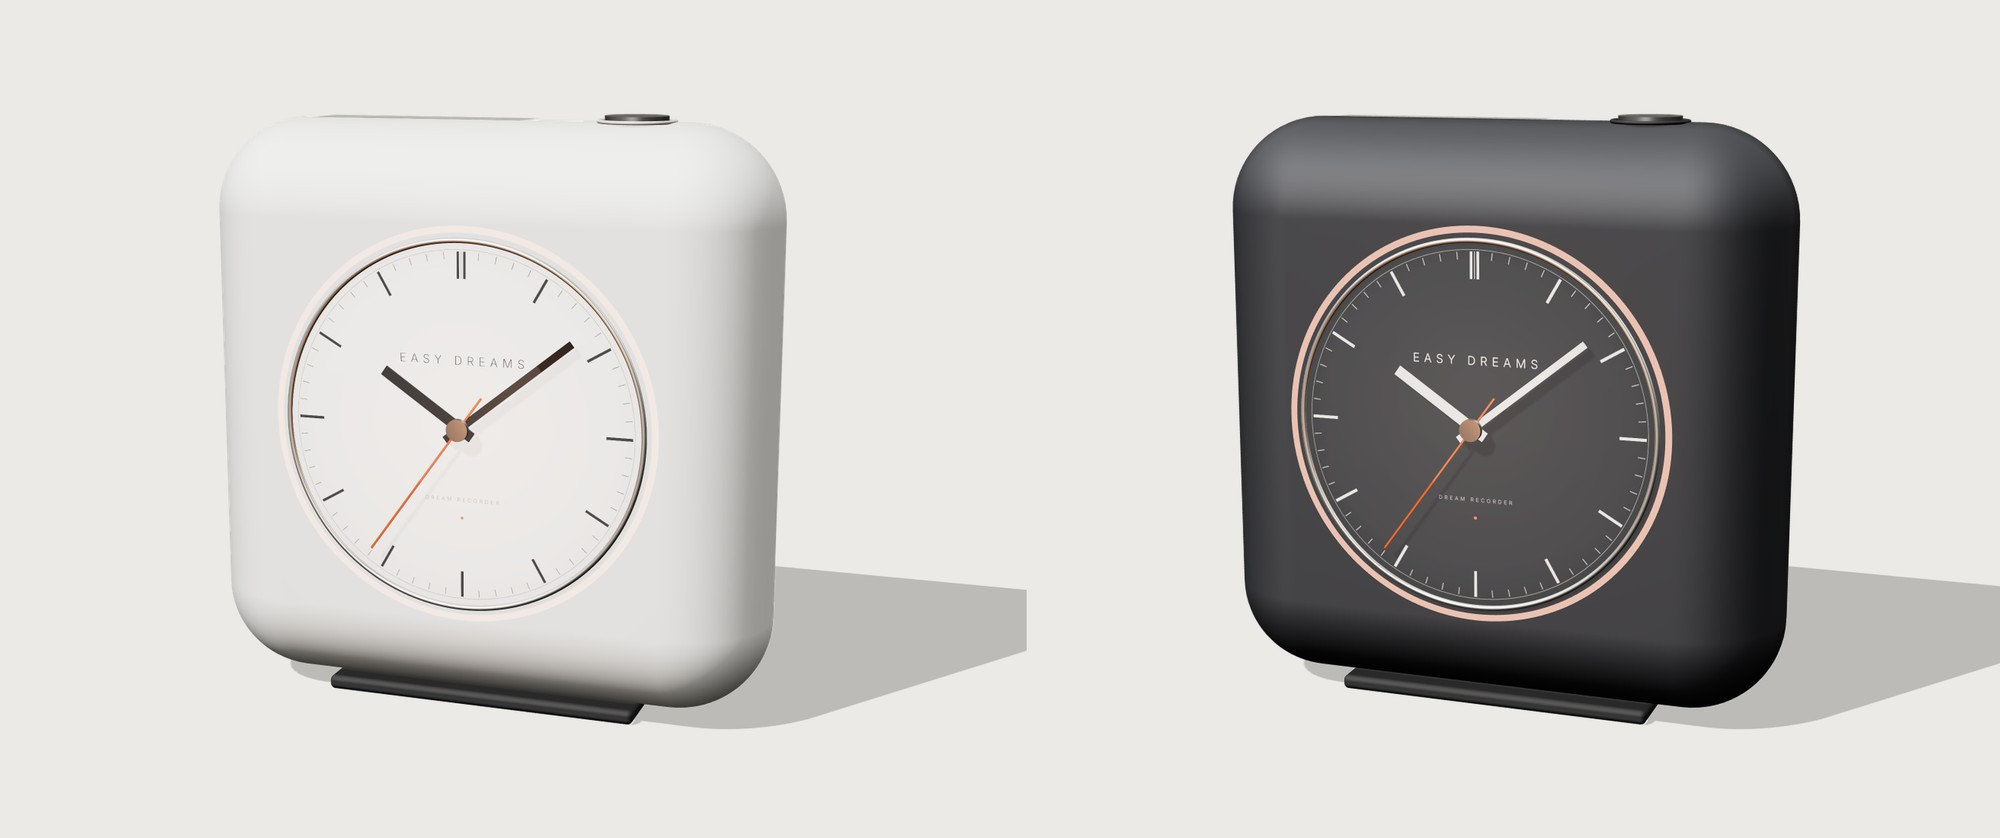
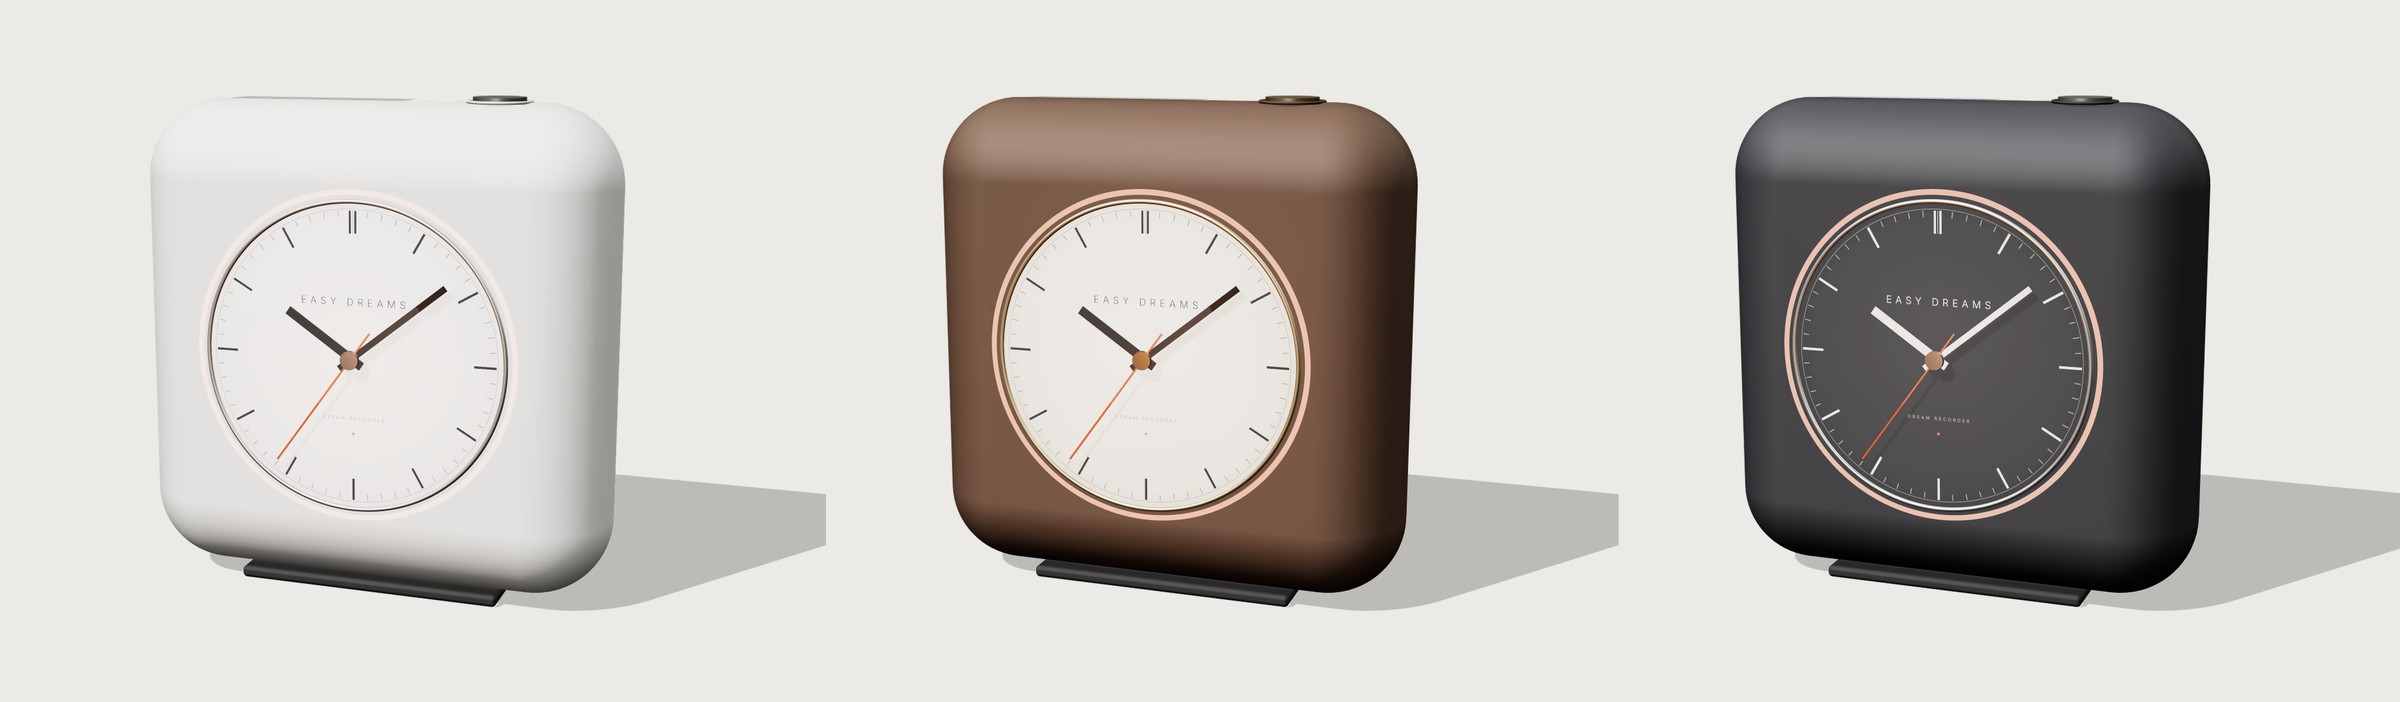
Add mocha brown finish with live finish switcher
Claude-Session: https://claude.ai/code/session_01Tka3XjxpxafM5JXNLjZUeU

diff --git a/oneiro/index.html b/oneiro/index.html
@@ -170,7 +170,11 @@ caption{text-align:start;font-weight:400;font-size:20px;padding-bottom:12px}
 .ref .from{font-family:var(--f-mono);font-size:11px;letter-spacing:.16em;color:var(--faint);text-transform:uppercase}
 .ref .take{border-top:1px solid var(--line);padding-top:12px;font-size:15px}
 .ref .take b{color:var(--accent);font-weight:500}
-.finishes{display:grid;grid-template-columns:1fr 1fr;gap:20px}
+.finishes{display:grid;grid-template-columns:repeat(3,1fr);gap:20px}
+.swatches{display:flex;gap:10px;align-items:center}
+.swatches button{width:28px;height:28px;border-radius:50%;cursor:pointer;border:2px solid transparent;outline-offset:2px;box-shadow:inset 0 0 0 1px rgba(0,0,0,.15)}
+.swatches button[aria-pressed=true]{border-color:currentColor}
+.swatches span{font-size:13px;opacity:.75}
 .finish{border-radius:24px;overflow:hidden;background:radial-gradient(ellipse at 50% 35%,#f3f1ed,var(--stone) 75%);display:grid}
 .finish img{width:100%;height:auto;display:block}
 .finish .cap{padding:0 22px 20px;display:flex;justify-content:space-between;gap:10px;flex-wrap:wrap}
@@ -220,7 +224,7 @@ footer{padding-block:40px 64px;border-top:1px solid var(--line);color:var(--fain
     <div><span class="v">מחוגים בתנועה שקטה</span><span class="k">מנוע צעד בלי תקתוק, מתכוונן לבד דרך Wi‑Fi</span></div>
     <div><span class="v">טבעת אור זריחה</span><span class="k">20 דקות מסגול לענבר לפני הצליל</span></div>
     <div><span class="v">כפתור כתר להקלטה</span><span class="k">מקליט רק כשלוחצים, עם נורית אדומה</span></div>
-    <div><span class="v">אבן או גרפיט</span><span class="k">גוף מט רך למגע, 16 × 16 × 5.2 ס״מ</span></div>
+    <div><span class="v">אבן, מוקה או גרפיט</span><span class="k">גוף מט רך למגע, 16 × 16 × 5.2 ס״מ</span></div>
   </div>
 </header>
 
@@ -229,7 +233,7 @@ footer{padding-block:40px 64px;border-top:1px solid var(--line);color:var(--fain
   <div class="refs">
     <div class="ref"><span class="from">Brick</span><h3>חפץ פשוט שמשנה הרגל</h3><p class="muted">קובייה שלא עושה כלום חוץ מלנעול את הטלפון. ההצלחה שלה היא בתנועה הפיזית: מחליטים עם הגוף, לא עם עוד אפליקציה.</p><p class="take"><b>אצלנו:</b> בוקר בלי טלפון. האפליקציות המסיחות נשארות נעולות עד שלוחצים על הכתר ומספרים את החלום, או עד 20 דקות אחרי ההשכמה.</p></div>
     <div class="ref"><span class="from">WHOOP</span><h3>בלי מסך, ציון אחד, מנוי</h3><p class="muted">צמיד בלי מסך שמחזיר כל בוקר מספר אחד שאכפת לך ממנו. החומרה כלולה בחברות חודשית, והעסק הוא המנוי.</p><p class="take"><b>אצלנו:</b> ציון חלימה יומי, מנוי חודשי שכולל את השעון, ושום מסך על השעון עצמו.</p></div>
-    <div class="ref"><span class="from">Apple</span><h3>עיצוב ומערכת שלמה</h3><p class="muted">מוצר שנראה פשוט כי כל פרט הוחלט. ומוצרים שמדברים זה עם זה, כמו נתוני שינה מהשעון שנכנסים ל־Health.</p><p class="take"><b>אצלנו:</b> שני גימורים בלבד, אריזה שהיא חוויה, וסנכרון עם Apple Health, Apple Watch, Oura ו־WHOOP כדי לדעת מתי אתם בשלב חלימה.</p></div>
+    <div class="ref"><span class="from">Apple</span><h3>עיצוב ומערכת שלמה</h3><p class="muted">מוצר שנראה פשוט כי כל פרט הוחלט. ומוצרים שמדברים זה עם זה, כמו נתוני שינה מהשעון שנכנסים ל־Health.</p><p class="take"><b>אצלנו:</b> שלושה גימורים בלבד, אריזה שהיא חוויה, וסנכרון עם Apple Health, Apple Watch, Oura ו־WHOOP כדי לדעת מתי אתם בשלב חלימה.</p></div>
   </div>
 </section>
 
@@ -245,6 +249,7 @@ footer{padding-block:40px 64px;border-top:1px solid var(--line);color:var(--fain
       <canvas id="simCanvas" hidden aria-label="מודל תלת־ממדי של השעון"></canvas>
       <img class="poster" id="poster" src="oneiro-clock.png" alt="השעון בחדר" width="1600" height="1257">
       <div class="hud">
+        <div class="swatches" role="group" aria-label="גימור"><button type="button" data-f="stone" aria-pressed="true" style="background:#d9d8d4" aria-label="אבן"></button><button type="button" data-f="mocha" aria-pressed="false" style="background:#5a4436" aria-label="מוקה"></button><button type="button" data-f="graphite" aria-pressed="false" style="background:#36373a" aria-label="גרפיט"></button><span id="fname">אבן</span></div>
         <div class="timeline" aria-hidden="true"><span id="s1" class="on">לילה</span><span id="s2">זריחה</span><span id="s3">מנגינה</span><span id="s4">ספרו</span><span id="s5">פירוש</span></div>
         <p class="status" id="status"><b>06:57</b> · לילה. האור כבוי והמיקרופון לא מקליט.</p>
         <div class="row">
@@ -289,9 +294,10 @@ footer{padding-block:40px 64px;border-top:1px solid var(--line);color:var(--fain
   <div class="sec-head"><span class="label">עיצוב</span><h2>ישן וחדש באותו חפץ</h2><p>החוגה והמחוגים לקוחים משעוני שולחן קלאסיים. הגוף הוא אובייקט רך ושקט, ממשפחת המוצרים שמכירים מוולנס ומטכנולוגיה. אין מסך, אין התראות ויש כפתור אחד.</p></div>
   <div class="finishes">
     <div class="finish"><img src="oneiro-clock.png" width="1600" height="1257" alt="Easy Dreams בגימור אבן: גוף לבן־אפרפר מט וחוגה בהירה"><div class="cap"><h3>אבן</h3><span class="muted">גוף מט לבן־אפרפר, מחוגים שחורים</span></div></div>
+    <div class="finish"><img src="oneiro-mocha.png" width="1600" height="1257" alt="Easy Dreams בגימור מוקה: גוף חום מט וחוגה בצבע שמנת"><div class="cap"><h3>מוקה</h3><span class="muted">חום מט חם, חוגה בצבע שמנת</span></div></div>
     <div class="finish"><img src="oneiro-graphite.png" width="1600" height="1257" alt="Easy Dreams בגימור גרפיט: גוף אפור כהה וחוגה כהה עם מחוגים לבנים"><div class="cap"><h3>גרפיט</h3><span class="muted">גוף אפור כהה, מחוגים לבנים, נעלם בחדר חשוך</span></div></div>
   </div>
-  <p class="note" style="margin-top:18px">בשני הגימורים מחוג השניות כתום, וזה הצבע היחיד. הטבעת, הכתר והמסגרת הדקה עשויים מאלומיניום מוברש. אין לוגו על הגוף, השם מופיע רק על החוגה.</p>
+  <p class="note" style="margin-top:18px">בכל הגימורים מחוג השניות כתום, וזה הצבע היחיד. הטבעת, הכתר והמסגרת הדקה עשויים מאלומיניום מוברש. אין לוגו על הגוף, השם מופיע רק על החוגה.</p>
 </section>
 
 <div class="dark-band">
@@ -567,6 +573,11 @@ try {
     setTimeout(()=>renderResult(text,r,{tag:canned?"דוגמה":"זיהוי בסיסי",source:canned?"פירוש לדוגמה שנכתב מראש":"זיהוי סמלים מקומי, בלי AI"}),800);
   }
   $("#interpBtn").addEventListener("click",interpret);
+  const FN={stone:["אבן","oneiro-clock.png"],mocha:["מוקה","oneiro-mocha.png"],graphite:["גרפיט","oneiro-graphite.png"]};
+  document.querySelectorAll(".swatches button").forEach(b=>b.addEventListener("click",()=>{
+    const f=b.dataset.f; document.querySelectorAll(".swatches button").forEach(x=>x.setAttribute("aria-pressed",String(x===b)));
+    $("#fname").textContent=FN[f][0]; const c=C(); if(c&&c.setFinish) c.setFinish(f); else $("#poster").src=FN[f][1];
+  }));
 
   const WF=[["מחיר לצרכן",449],["מע״מ 18%",-68],["עלות שעון מונחת",-150],["משלוח ללקוח וסליקה",-30],["החזרות ואחריות",-15],["שיווק לכל מכירה",-60],["רווח על כל שעון",126]];
   WF.forEach(([l,v],i)=>{const row=el("div","wf"+(i===0?" first":i===WF.length-1?" last":"")); row.append(el("span",null,l));

diff --git a/oneiro/clock3d.js b/oneiro/clock3d.js
@@ -4,13 +4,13 @@ import { RoundedBoxGeometry } from 'three/addons/geometries/RoundedBoxGeometry.j
 import { RoomEnvironment } from 'three/addons/environments/RoomEnvironment.js';
 import { OrbitControls } from 'three/addons/controls/OrbitControls.js';
 
-function dialTexture(maxAniso, dark) {
+function dialTexture(maxAniso, dark, cream) {
   const INK = dark ? '#e8e6e1' : '#1e1e1c', INK2 = dark ? 'rgba(232,230,225,' : 'rgba(30,30,28,';
   const S = 2048, c = document.createElement('canvas'); c.width = c.height = S;
   const g = c.getContext('2d'), R = S / 2;
   g.translate(R, R);
   const grd = g.createRadialGradient(0, -R * .2, R * .1, 0, 0, R);
-  if (dark) { grd.addColorStop(0, '#2a2b2e'); grd.addColorStop(.85, '#222326'); grd.addColorStop(1, '#1a1b1d'); } else { grd.addColorStop(0, '#f7f6f2'); grd.addColorStop(.85, '#efede8'); grd.addColorStop(1, '#e4e1db'); }
+  if (dark) { grd.addColorStop(0, '#2a2b2e'); grd.addColorStop(.85, '#222326'); grd.addColorStop(1, '#1a1b1d'); } else if (cream) { grd.addColorStop(0, '#f3ece0'); grd.addColorStop(.85, '#ebe1d1'); grd.addColorStop(1, '#ddd0bc'); } else { grd.addColorStop(0, '#f7f6f2'); grd.addColorStop(.85, '#efede8'); grd.addColorStop(1, '#e4e1db'); }
   g.fillStyle = grd; g.beginPath(); g.arc(0, 0, R, 0, Math.PI * 2); g.fill();
   // fine outer track
   g.strokeStyle = INK2 + '.55)'; g.lineWidth = 2.5;
@@ -46,6 +46,11 @@ function grilleTexture(dark) {
   const t = new THREE.CanvasTexture(c); t.colorSpace = THREE.SRGBColorSpace; return t;
 }
 
+const FINISHES = {
+  stone:    { body: 0xd9d8d4, rough: .78, hand: 0x1b1b1a, diff: 0xcfccc6, led: 0xc4c1bb, metal: 0xd4d3cf, dial: 'light' },
+  graphite: { body: 0x36373a, rough: .7,  hand: 0xeeede9, diff: 0x2c2d30, led: 0x2c2d30, metal: 0xd4d3cf, dial: 'dark' },
+  mocha:    { body: 0x5a4436, rough: .72, hand: 0x231b16, diff: 0x46352a, led: 0x46352a, metal: 0xd9c7a8, dial: 'cream' },
+};
 const VIOLET = new THREE.Color(0x8a6cf0), AMBER = new THREE.Color(0xffa25e);
 export function createClock(canvas, opts = {}) {
   const renderer = new THREE.WebGLRenderer({ canvas, antialias: true, alpha: true, preserveDrawingBuffer: !!opts.preserve });
@@ -65,15 +70,15 @@ export function createClock(canvas, opts = {}) {
   camera.lookAt(target);
 
   const aniso = renderer.capabilities.getMaxAnisotropy();
-  const G = opts.finish === 'graphite';
+  const F = FINISHES[opts.finish] || FINISHES.stone, G = F.dial === 'dark';
   const M = {
-    body: new THREE.MeshPhysicalMaterial({ color: G ? 0x36373a : 0xd9d8d4, roughness: G ? .7 : .78, metalness: 0, clearcoat: .1, clearcoatRoughness: .6 }),
+    body: new THREE.MeshPhysicalMaterial({ color: F.body, roughness: F.rough, metalness: 0, clearcoat: .1, clearcoatRoughness: .6 }),
     plinth: new THREE.MeshStandardMaterial({ color: 0x2a2a2b, roughness: .8 }),
-    champagne: new THREE.MeshStandardMaterial({ color: 0xd4d3cf, metalness: 1, roughness: .32, envMapIntensity: 1.4 }),
-    hand: new THREE.MeshStandardMaterial({ color: G ? 0xeeede9 : 0x1b1b1a, metalness: .1, roughness: .5 }),
+    champagne: new THREE.MeshStandardMaterial({ color: F.metal, metalness: 1, roughness: .32, envMapIntensity: 1.4 }),
+    hand: new THREE.MeshStandardMaterial({ color: F.hand, metalness: .1, roughness: .5 }),
     second: new THREE.MeshStandardMaterial({ color: 0xd9572b, metalness: .2, roughness: .45 }),
-    diffuser: new THREE.MeshStandardMaterial({ color: G ? 0x2c2d30 : 0xcfccc6, roughness: .9, emissive: 0xffa25e, emissiveIntensity: 0 }),
-    led: new THREE.MeshStandardMaterial({ color: G ? 0x2c2d30 : 0xc4c1bb, roughness: .6, emissive: 0xff3b2f, emissiveIntensity: 0 }),
+    diffuser: new THREE.MeshStandardMaterial({ color: F.diff, roughness: .9, emissive: 0xffa25e, emissiveIntensity: 0 }),
+    led: new THREE.MeshStandardMaterial({ color: F.led, roughness: .6, emissive: 0xff3b2f, emissiveIntensity: 0 }),
     glass: new THREE.MeshPhysicalMaterial({ color: 0xffffff, roughness: .03, metalness: 0, transparent: true, opacity: .16, clearcoat: 1, envMapIntensity: 1.6, depthWrite: false }),
   };
 
@@ -86,7 +91,7 @@ export function createClock(canvas, opts = {}) {
   const FZ = 2.6; // front face
   const diff = add(new THREE.RingGeometry(5.2, 5.38, 160), M.diffuser, false); diff.position.z = FZ + .006;
   const bez = add(new THREE.TorusGeometry(5.0, .07, 24, 180), M.champagne); bez.position.z = FZ + .03;
-  const dial = add(new THREE.CircleGeometry(4.98, 160), new THREE.MeshStandardMaterial({ map: dialTexture(aniso, G), roughness: .85 }), false); dial.position.z = FZ + .012;
+  const dial = add(new THREE.CircleGeometry(4.98, 160), new THREE.MeshStandardMaterial({ map: dialTexture(aniso, G, F.dial === 'cream'), roughness: .85 }), false); dial.position.z = FZ + .012;
 
   function hand(w, len, back, depth, mat, z) {
     const geo = new THREE.BoxGeometry(w, len + back, depth); geo.translate(0, (len - back) / 2, 0);
@@ -145,6 +150,12 @@ export function createClock(canvas, opts = {}) {
       warm.intensity = v * 70;
     },
     setRecording(on) { M.led.emissiveIntensity = on ? 3 : 0; },
+    setFinish(name) {
+      const f = FINISHES[name]; if (!f) return;
+      M.body.color.setHex(f.body); M.body.roughness = f.rough; M.hand.color.setHex(f.hand);
+      M.diffuser.color.setHex(f.diff); M.led.color.setHex(f.led); M.champagne.color.setHex(f.metal);
+      const old = dial.material.map; dial.material.map = dialTexture(aniso, f.dial === 'dark', f.dial === 'cream'); dial.material.needsUpdate = true; old && old.dispose();
+    },
     setExposure(v) { renderer.toneMappingExposure = v; },
     render() { controls && controls.update(); renderer.render(scene, camera); },
     renderer, scene, camera,
